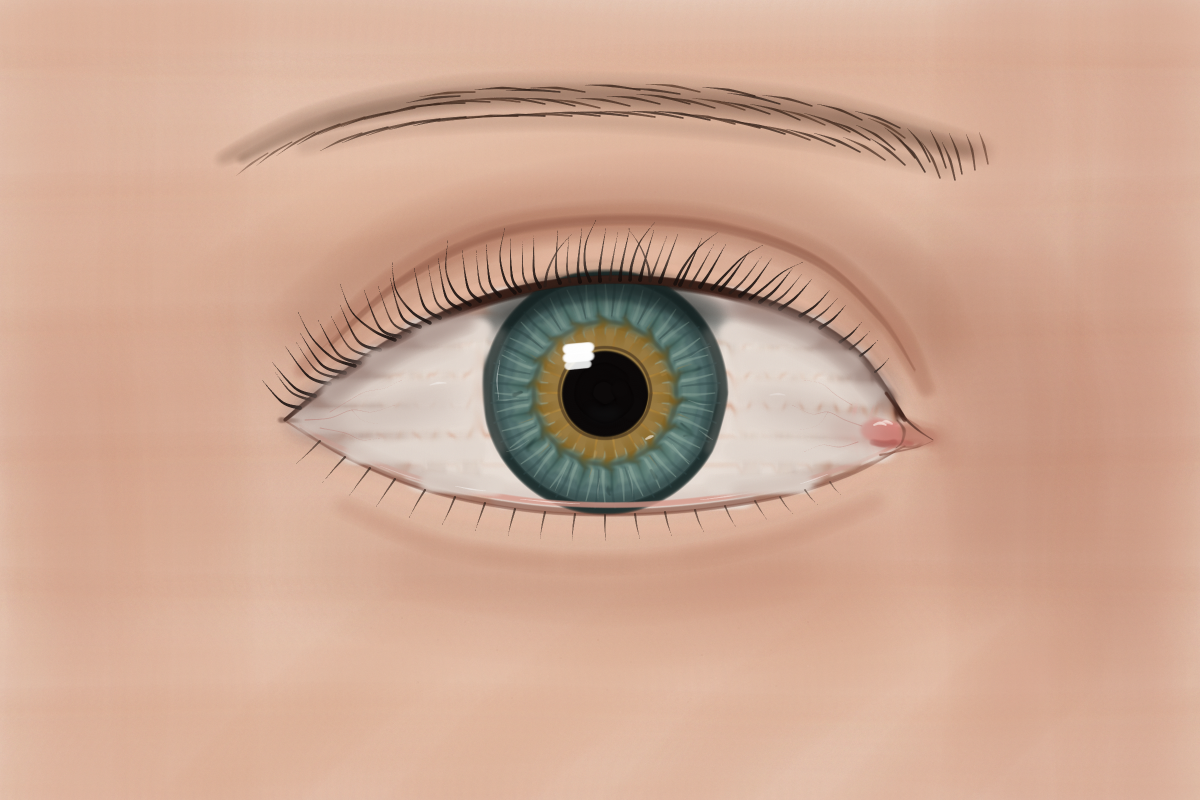
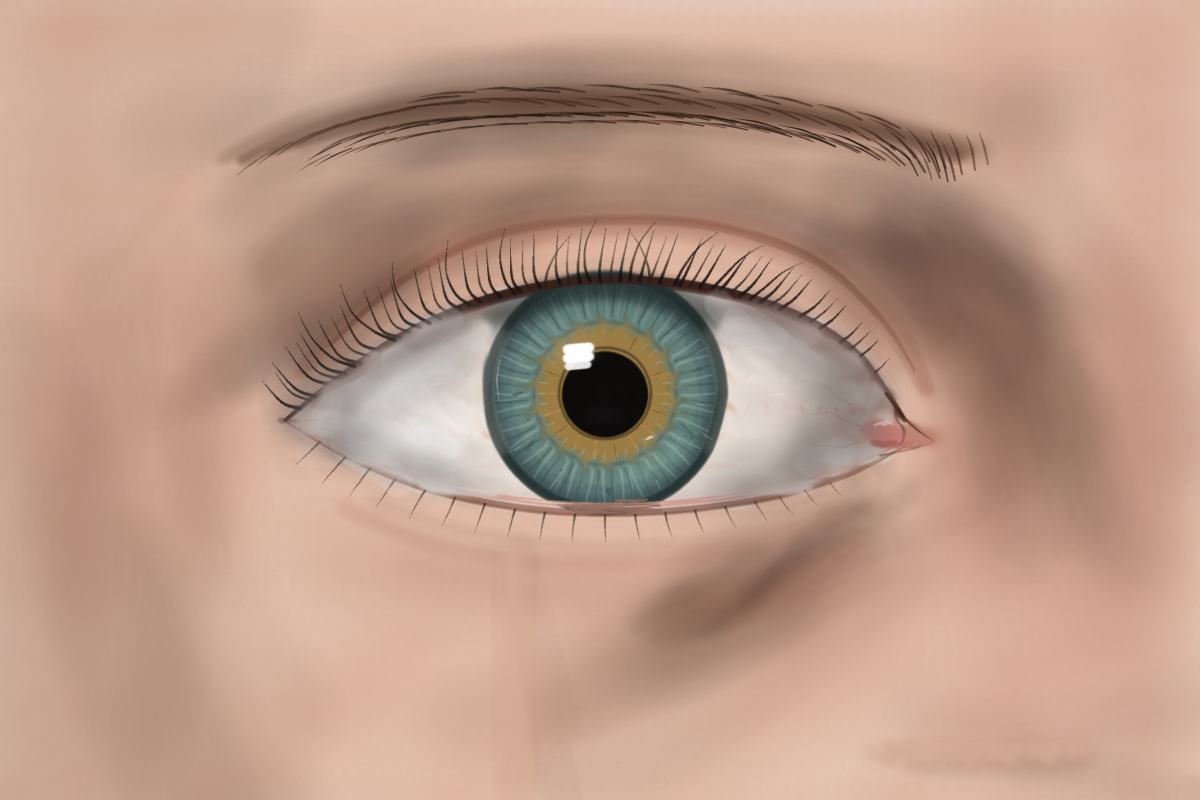
Continue the eye from the viewer's touch-ups; fix smudge darkening
The viewer's touched-up sheet (stitched from two phone screenshots)
goes down as round 17, a single layer, and Claude paints rounds 18-23
on top. The easel learns to lay a saved sheet down as a layer.

The smudge tool now mixes pixels directly with unbiased rounding;
stacked canvas blends were rounding down and darkening the paint into
visible ribbons.

Claude-Session: https://claude.ai/code/session_01JTynV7EYsrSHXdz61yw39t

diff --git a/live-easel/index.html b/live-easel/index.html
@@ -174,7 +174,7 @@ header {
         <div class="pen" id="pen" hidden><div class="ring" id="penRing"></div><span class="tag">Claude</span></div>
       </div>
       <div class="notes">
-        <p><strong>How Claude paints here.</strong> Each stroke is a path Claude places by hand: a list of points with pen pressure, plus the brush it picked. The easel drags the brush through those points at hand speed. There are no shape, fill or gradient commands, only the same four tools you have.</p>
+        <p><strong>How Claude paints here.</strong> Each stroke is a path Claude places by hand: a list of points with pen pressure, plus the brush it picked. The easel drags the brush through those points at hand speed. There are no shape, fill or gradient commands, only the same four tools you have. A round marked as your touch-ups is a sheet you saved and sent back; it goes down as one layer and Claude paints on from there.</p>
         <p id="msg" hidden></p>
       </div>
     </section>
@@ -272,13 +272,28 @@ header {
     } else if (st.t === 's') {
       const L = live.last;
       if (L) {
-        const sz = Math.min(640, Math.ceil(D)), r = sz / 2;
-        sctx.globalCompositeOperation = 'copy';
-        sctx.drawImage(paint, L.X - r, L.Y - r, sz, sz, 0, 0, sz, sz);
-        sctx.globalCompositeOperation = 'destination-in';
-        sctx.drawImage(maskCv, 0, 0, sz, sz);
-        pctx.save(); pctx.globalAlpha = st.o;
-        pctx.drawImage(smudgeCv, 0, 0, sz, sz, X - r, Y - r, sz, sz); pctx.restore();
+        // Drag the paint under the last dab to this one, mixing pixel by pixel with a soft falloff.
+        // Done on the pixels directly with unbiased rounding: canvas blending rounds down a little on
+        // every pass, and a smudge stacks so many passes that the paint used to darken into ribbons.
+        const r = Math.max(1, Math.min(320, Math.round(D / 2))), w = 2 * r;
+        const ox = Math.round(L.X - X), oy = Math.round(L.Y - Y);
+        const x0 = Math.round(X) - r, y0 = Math.round(Y) - r;
+        const bx = Math.max(0, Math.min(x0, x0 + ox)), by = Math.max(0, Math.min(y0, y0 + oy));
+        const bx1 = Math.min(paint.width, Math.max(x0, x0 + ox) + w), by1 = Math.min(paint.height, Math.max(y0, y0 + oy) + w);
+        const bw = bx1 - bx, bh = by1 - by;
+        if (bw > 0 && bh > 0) {
+          const img = pctx.getImageData(bx, by, bw, bh), d = img.data, src = d.slice();
+          for (let j = 0; j < w; j++) for (let i = 0; i < w; i++) {
+            const ddx = i - r + .5, ddy = j - r + .5, dist = Math.sqrt(ddx * ddx + ddy * ddy) / r;
+            if (dist >= 1) continue;
+            const fall = dist < .4 ? 1 : 1 - (dist - .4) / .6, a = st.o * .55 * fall * fall;
+            const tx = x0 + i - bx, ty = y0 + j - by, sx = tx + ox, sy = ty + oy;
+            if (tx < 0 || ty < 0 || tx >= bw || ty >= bh || sx < 0 || sy < 0 || sx >= bw || sy >= bh) continue;
+            const ti = (ty * bw + tx) * 4, si = (sy * bw + sx) * 4;
+            for (let c = 0; c < 4; c++) d[ti + c] = d[ti + c] + (src[si + c] - d[ti + c]) * a;
+          }
+          pctx.putImageData(img, bx, by);
+        }
       }
     }
     live.last = { X, Y };
@@ -365,7 +380,7 @@ header {
   function enqueueNew() {
     for (const b of batches) {
       if (b.seq <= lastEnq) continue;
-      queue.push({ label: b.label || '' });
+      queue.push({ label: b.label || '', base: b.base || null });
       for (const s of (b.strokes || [])) queue.push({ st: s });
       lastEnq = b.seq;
     }
@@ -386,7 +401,19 @@ header {
           if (!skip && now < liftUntil) break;
           const item = queue.shift();
           if (!item) break;
-          if (item.label != null && !item.st) { currentLabel = item.label; refreshStatus(); continue; }
+          if (item.label != null && !item.st) {
+            if (item.base) { // a saved sheet (a viewer's touch-ups) laid down as a layer
+              if (!item.img) {
+                item.img = new Image();
+                item.img.onload = () => { item.ready = true; };
+                item.img.onerror = () => { item.ready = true; item.failed = true; showMsg('Could not load the saved sheet for this round.'); };
+                item.img.src = item.base;
+              }
+              if (!item.ready) { queue.unshift(item); currentLabel = item.label; refreshStatus(); break; }
+              if (!item.failed) { pctx.save(); pctx.globalAlpha = 1; pctx.globalCompositeOperation = 'source-over'; pctx.drawImage(item.img, 0, 0, paint.width, paint.height); pctx.restore(); }
+            }
+            currentLabel = item.label; refreshStatus(); continue;
+          }
           const st = norm(item.st); const dabs = planDabs(st);
           if (!dabs.length) continue;
           showStrokeInUI(st); beginStroke(st);
